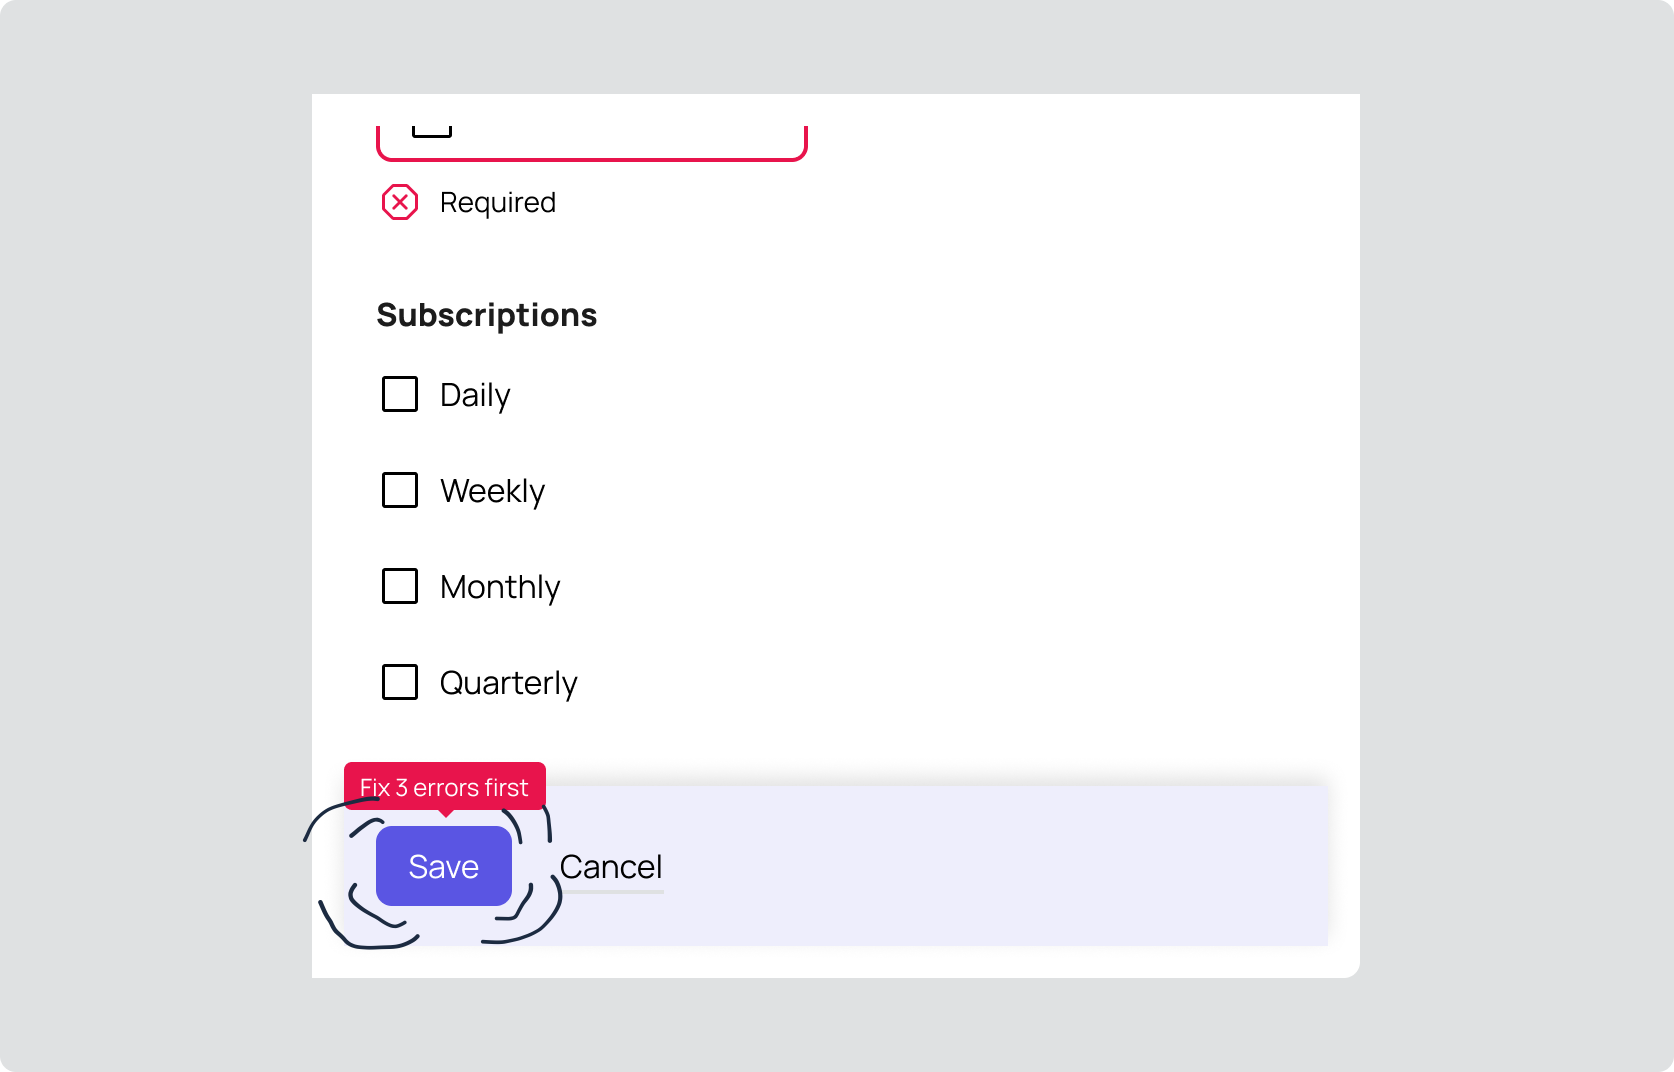
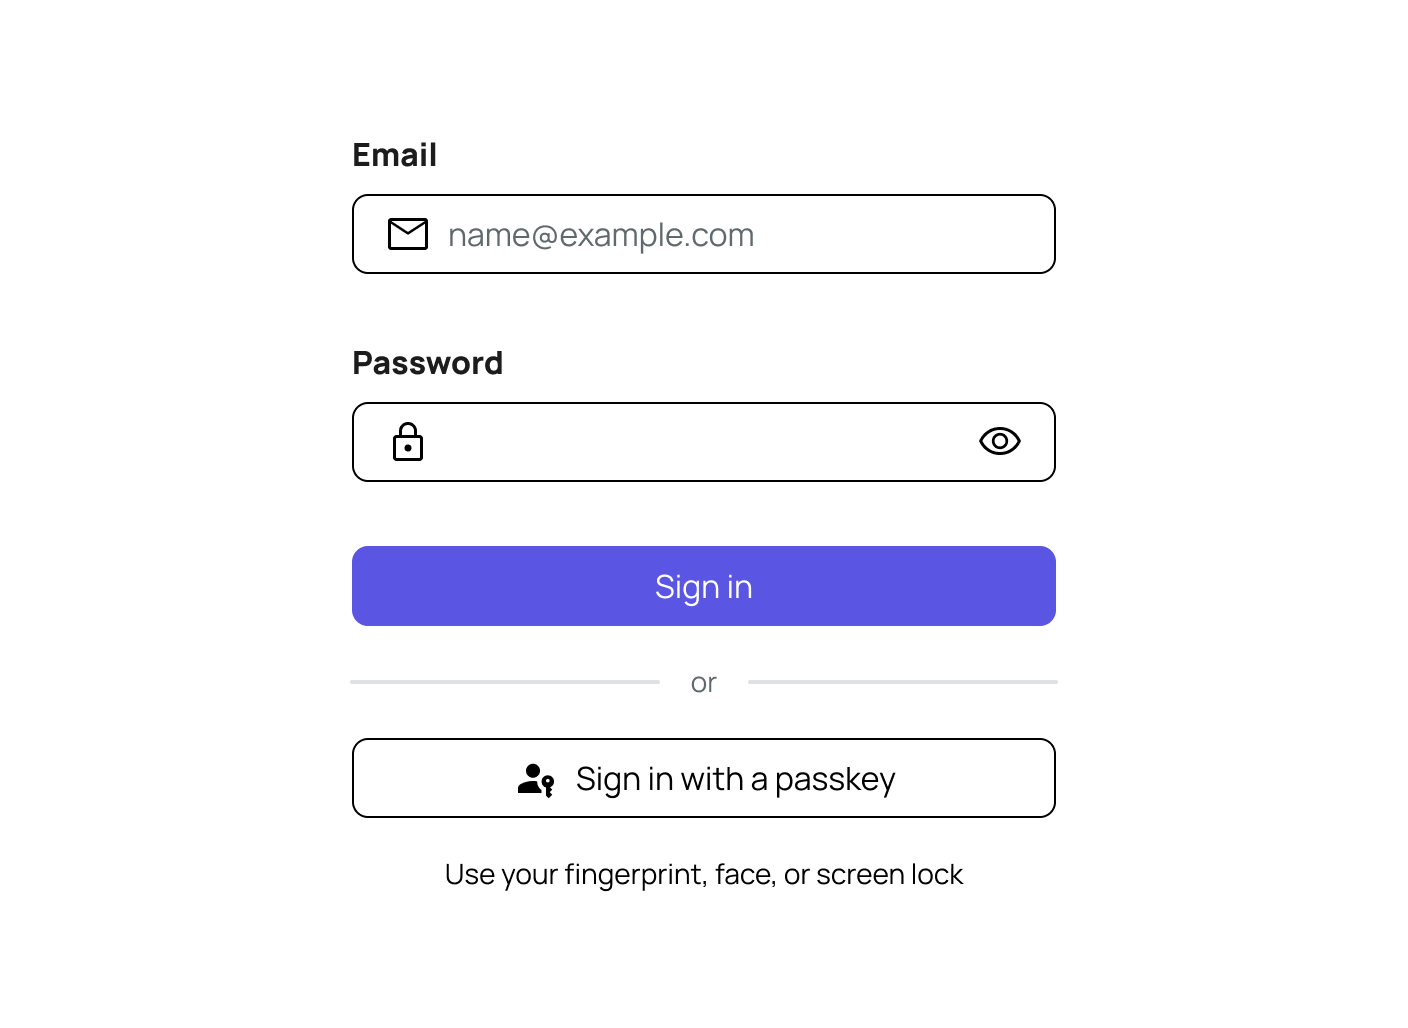
GITBOOK-187: fixing the passkey guideline

diff --git a/form-experience/passkeys.md b/form-experience/passkeys.md
@@ -1,8 +1,16 @@
 ---
-description: How
+description: How to handle passkey authentication method during sign-in
 ---
 
-# Untitled
+# Passkeys
+
+{% hint style="success" icon="sparkles" %}
+[**Get the AI skill**](passkeys.md#ai-skill-file) for this UX pattern guideline in a markdown (.MD) file.
+{% endhint %}
+
+This guideline covers the passkey option on a sign-in form: the passkey button, accompanying text, its icon, its states, and where it sits relative to the traditional password form.
+
+Any "sheet" that fires to facilitate the actual passkey authentication is handled by the user's browser and OS, so is out of scope for this guideline.
 
 {% hint style="info" %}
 For password fields, the "Sign in" button and sign-in wording, follow [Password fields and sign in](../entering-information/password-fields-and-sign-in.md) guidelines and [Grammar, voice, and tone for word choice](../reading-information/grammar-voice-and-tone.md#sign-in-versus-log-in).
@@ -13,6 +21,8 @@ For password fields, the "Sign in" button and sign-in wording, follow [Password 
 The sequence of elements in a passkey-supported sign-in form depends on how the product prioritizes passkeys versus traditional password sign in.
 
 #### Password-first
+
+<div data-with-frame="true"><figure><img src="../.gitbook/assets/image (50).png" alt=""><figcaption></figcaption></figure></div>
 
 In a product that prioritizes traditional password sign in, lead with the traditional authentication fields (username or equivalent and password field).
 
@@ -36,4 +46,32 @@ Suggested text:
 
 > Use your fingerprint, face, or screen lock
 
+#### Passkey-forward
+
+<div data-with-frame="true"><figure><img src="../.gitbook/assets/image (77).png" alt=""><figcaption></figcaption></figure></div>
+
 In a product that wants to drive passkey adoption, lead with the passkey button.
+
+Use the same button style, leading icon, and text label for the passkey button as described above.
+
+Follow it with a brief text phrase explaining how passkey sign in works ,using the same suggested text as above.
+
+Next in the hierarchy, include a subdued separator with the word "or" to emphasize what comes next is a completely separate means for signing in, completely unrelated to passkey button just above.
+
+Follow the separator with the authentication field cluster and traditional Sign in button, still using the same primary button style as described above.
+
+
+
+***
+
+### AI skill file
+
+{% hint style="info" %}
+**Don't want to use a markdown file at all?** No problem, just copy URL for this page and paste into your agent. Tell it to use the linked guideline (runtime lookup).
+
+**Don't hard code** the contents of this page to your own skill files though - this page gets updated often.
+{% endhint %}
+
+
+
+[Learn how to use](../resources/ai-skills.md) with your favorite AI tool, and get other UX pattern skills.

diff --git a/SUMMARY.md b/SUMMARY.md
@@ -50,7 +50,7 @@
 * [Error validation](form-experience/error-validation.md)
 * [Field alignment and column layout](form-experience/field-alignment-and-column-layout.md)
 * [Multi-step forms](form-experience/multi-step-forms.md)
-* [Untitled](form-experience/untitled.md)
+* [Passkeys](form-experience/passkeys.md)
 * [Required versus optional fields](form-experience/required-versus-optional-fields.md)
 * [Reviewing / review step](form-experience/reviewing-review-step.md)
 * [Saving drafts](form-experience/saving-drafts.md)
